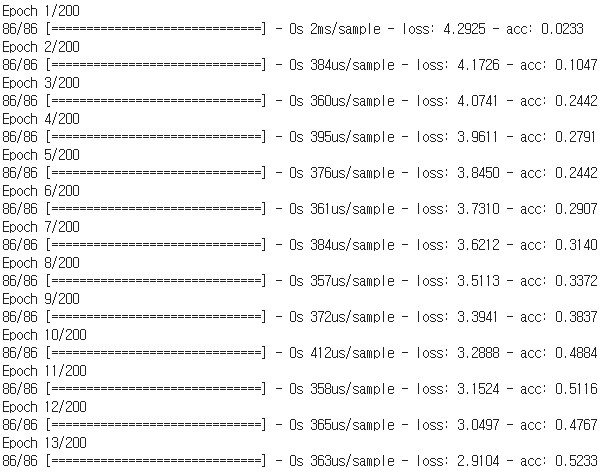
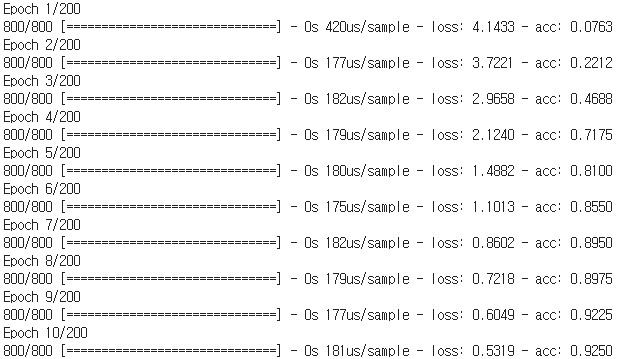
Add files via upload

diff --git a/DataOperator.py b/DataOperator.py
@@ -18,14 +18,15 @@ def load_train_data(train_data_path):
     train_data_file = open(train_data_path, 'r')
     train_data_text = train_data_file.read()
     train_data_file.close()
-    train_data_text = train_data_text.lower()
+    train_data_text = train_data_text.lower().replace('\r', '').replace('\n', ' ')
 
     tokenizer = kr.preprocessing.text.Tokenizer()
     tokenizer.fit_on_texts([train_data_text])
+    encoded_train_data_text = tokenizer.texts_to_sequences([train_data_text])[0]
 
     sequence_list = list()
-    for line in train_data_text.split('\n'):
-        encoded = tokenizer.texts_to_sequences([line])[0]
+    for pos in range(cfg.max_sequence_len + 1, len(encoded_train_data_text)):
+        encoded = encoded_train_data_text[pos - (cfg.max_sequence_len + 1):pos]
         for i in range(1, len(encoded)):
             sequence_list.append(encoded[:i + 1])
 

diff --git a/README.md b/README.md
@@ -29,7 +29,7 @@ Generation Usage
     python PredictSentence.py input_model_file input_tokenizer_file "input_sentence" output_word_count
 
     ex)
-    python PredictSentence.py ./model/rnnlm_model.h5 ./model/tokenizer.pickle "wikipedia" 8
+    python PredictSentence.py ./model/rnnlm_model.h5 ./model/tokenizer.pickle "wikipedia is" 8
 
 Generation Result
 -----
